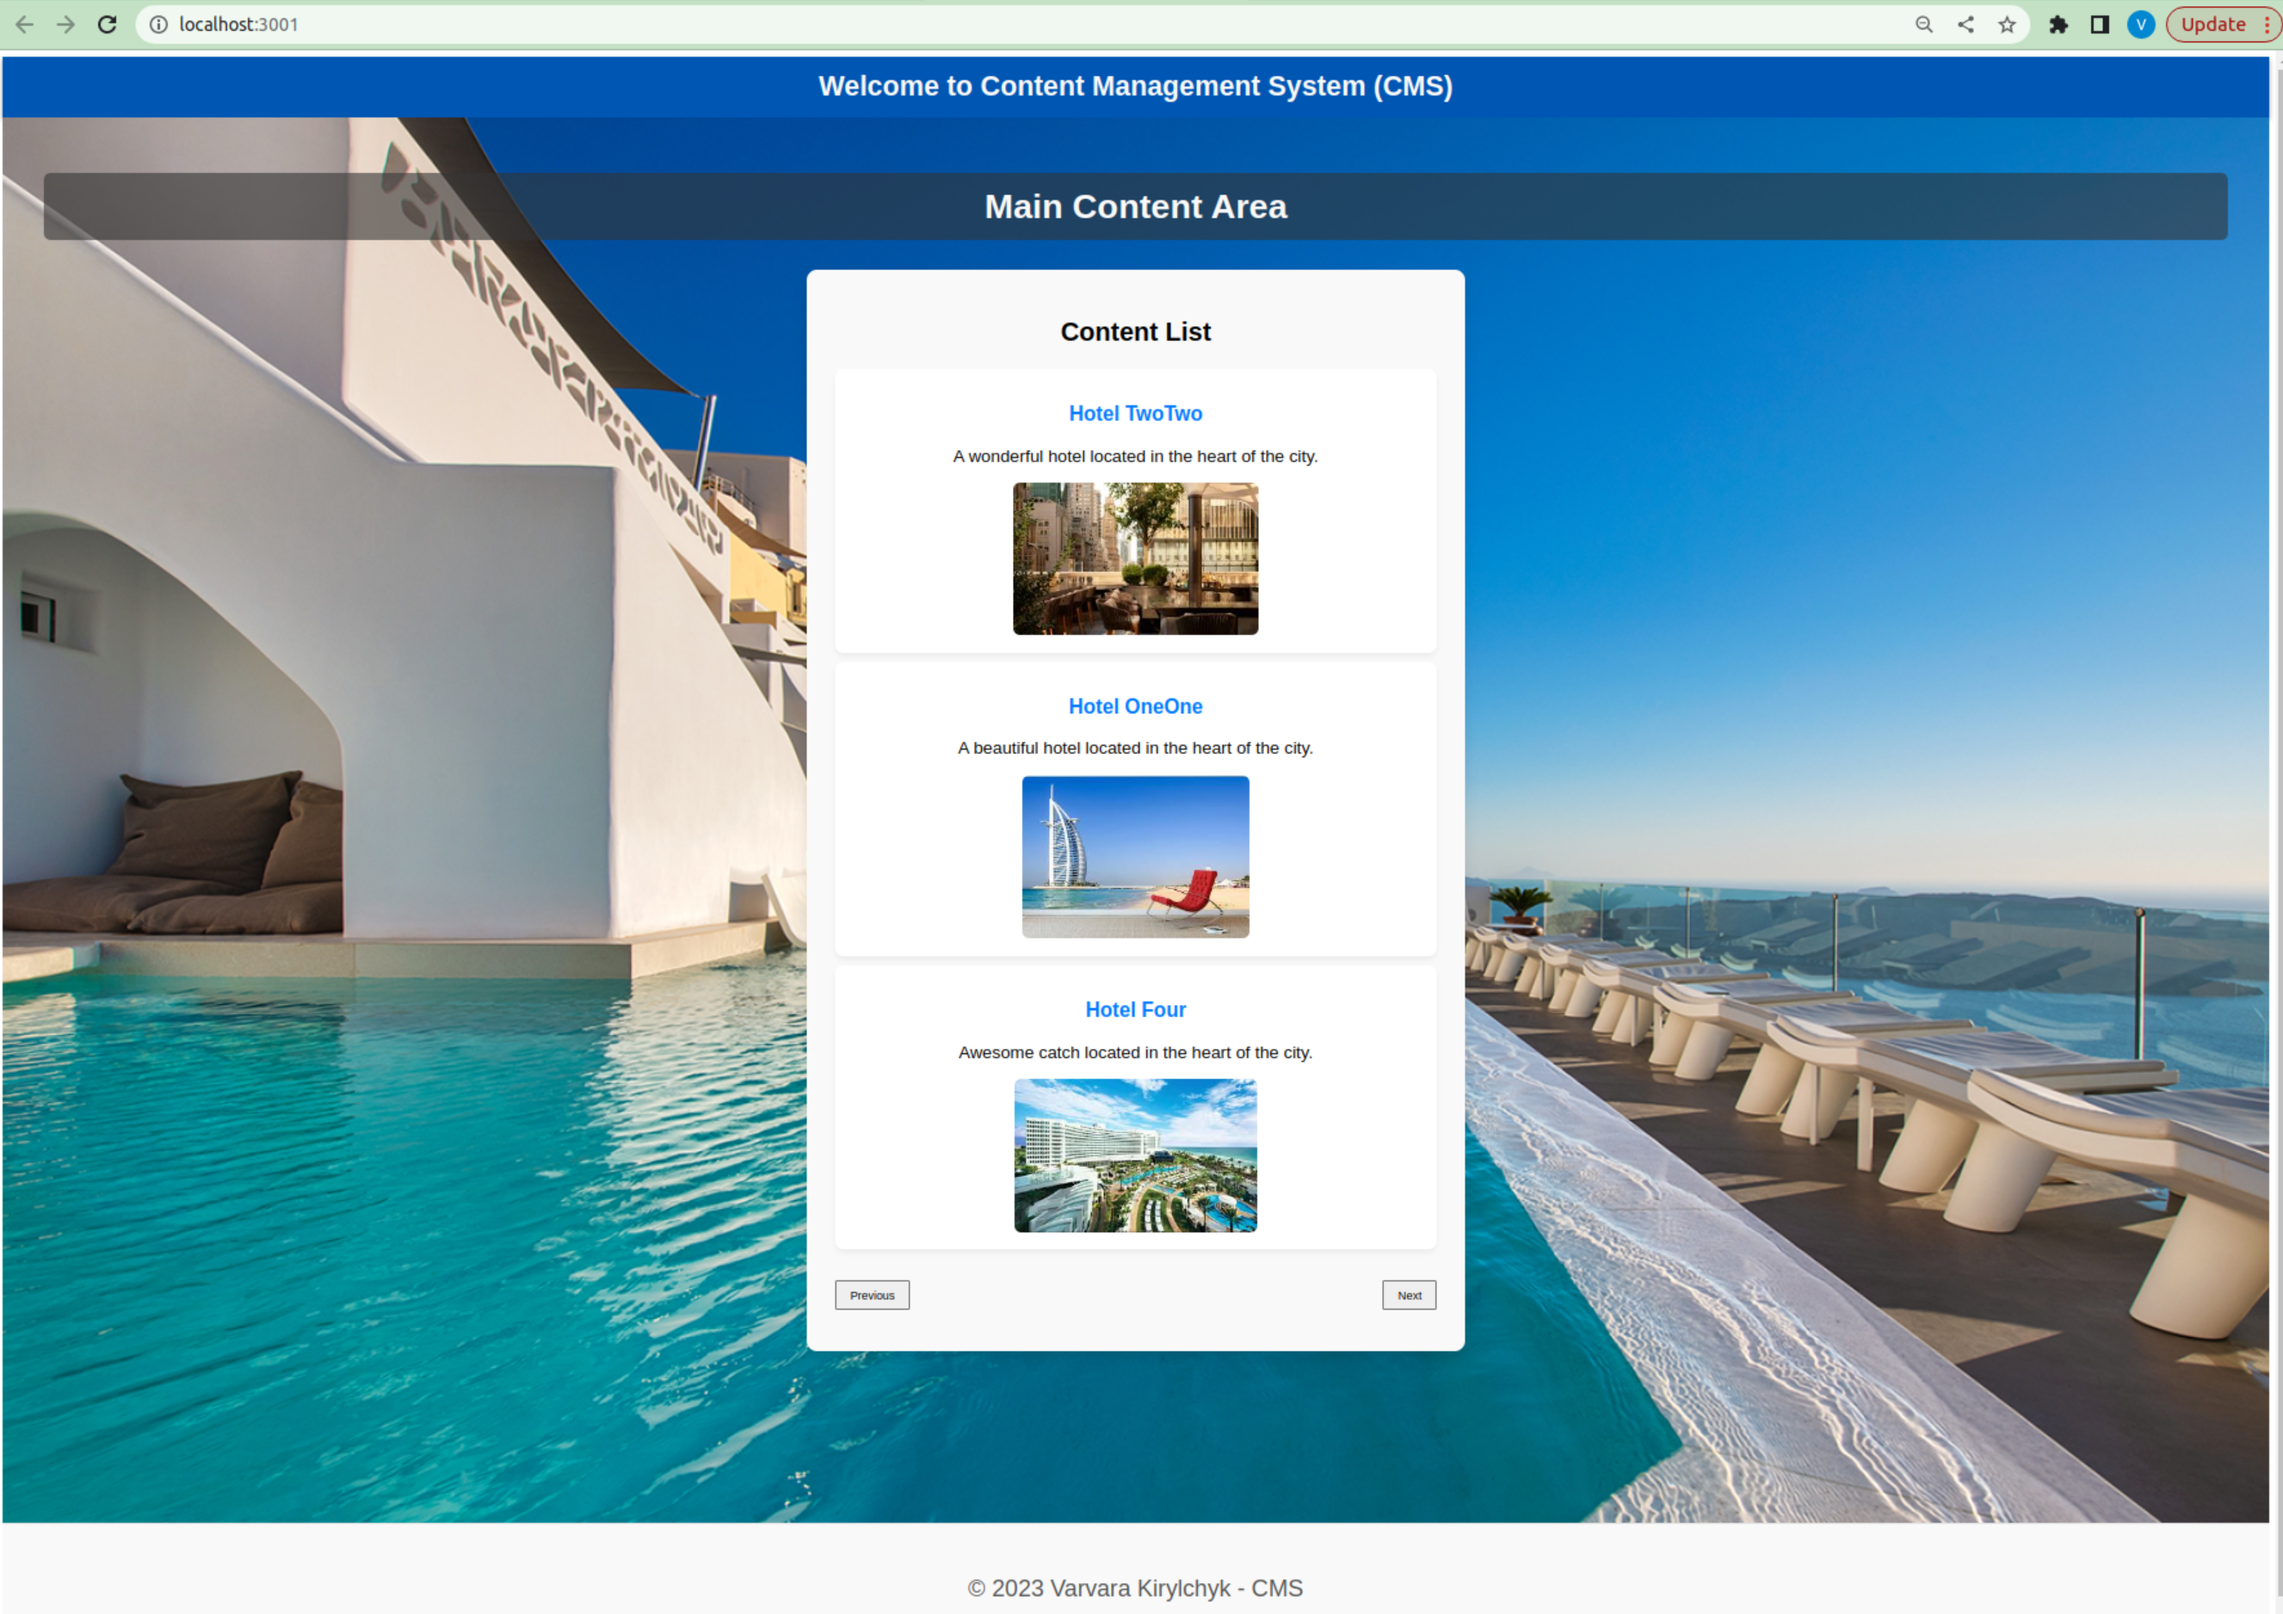
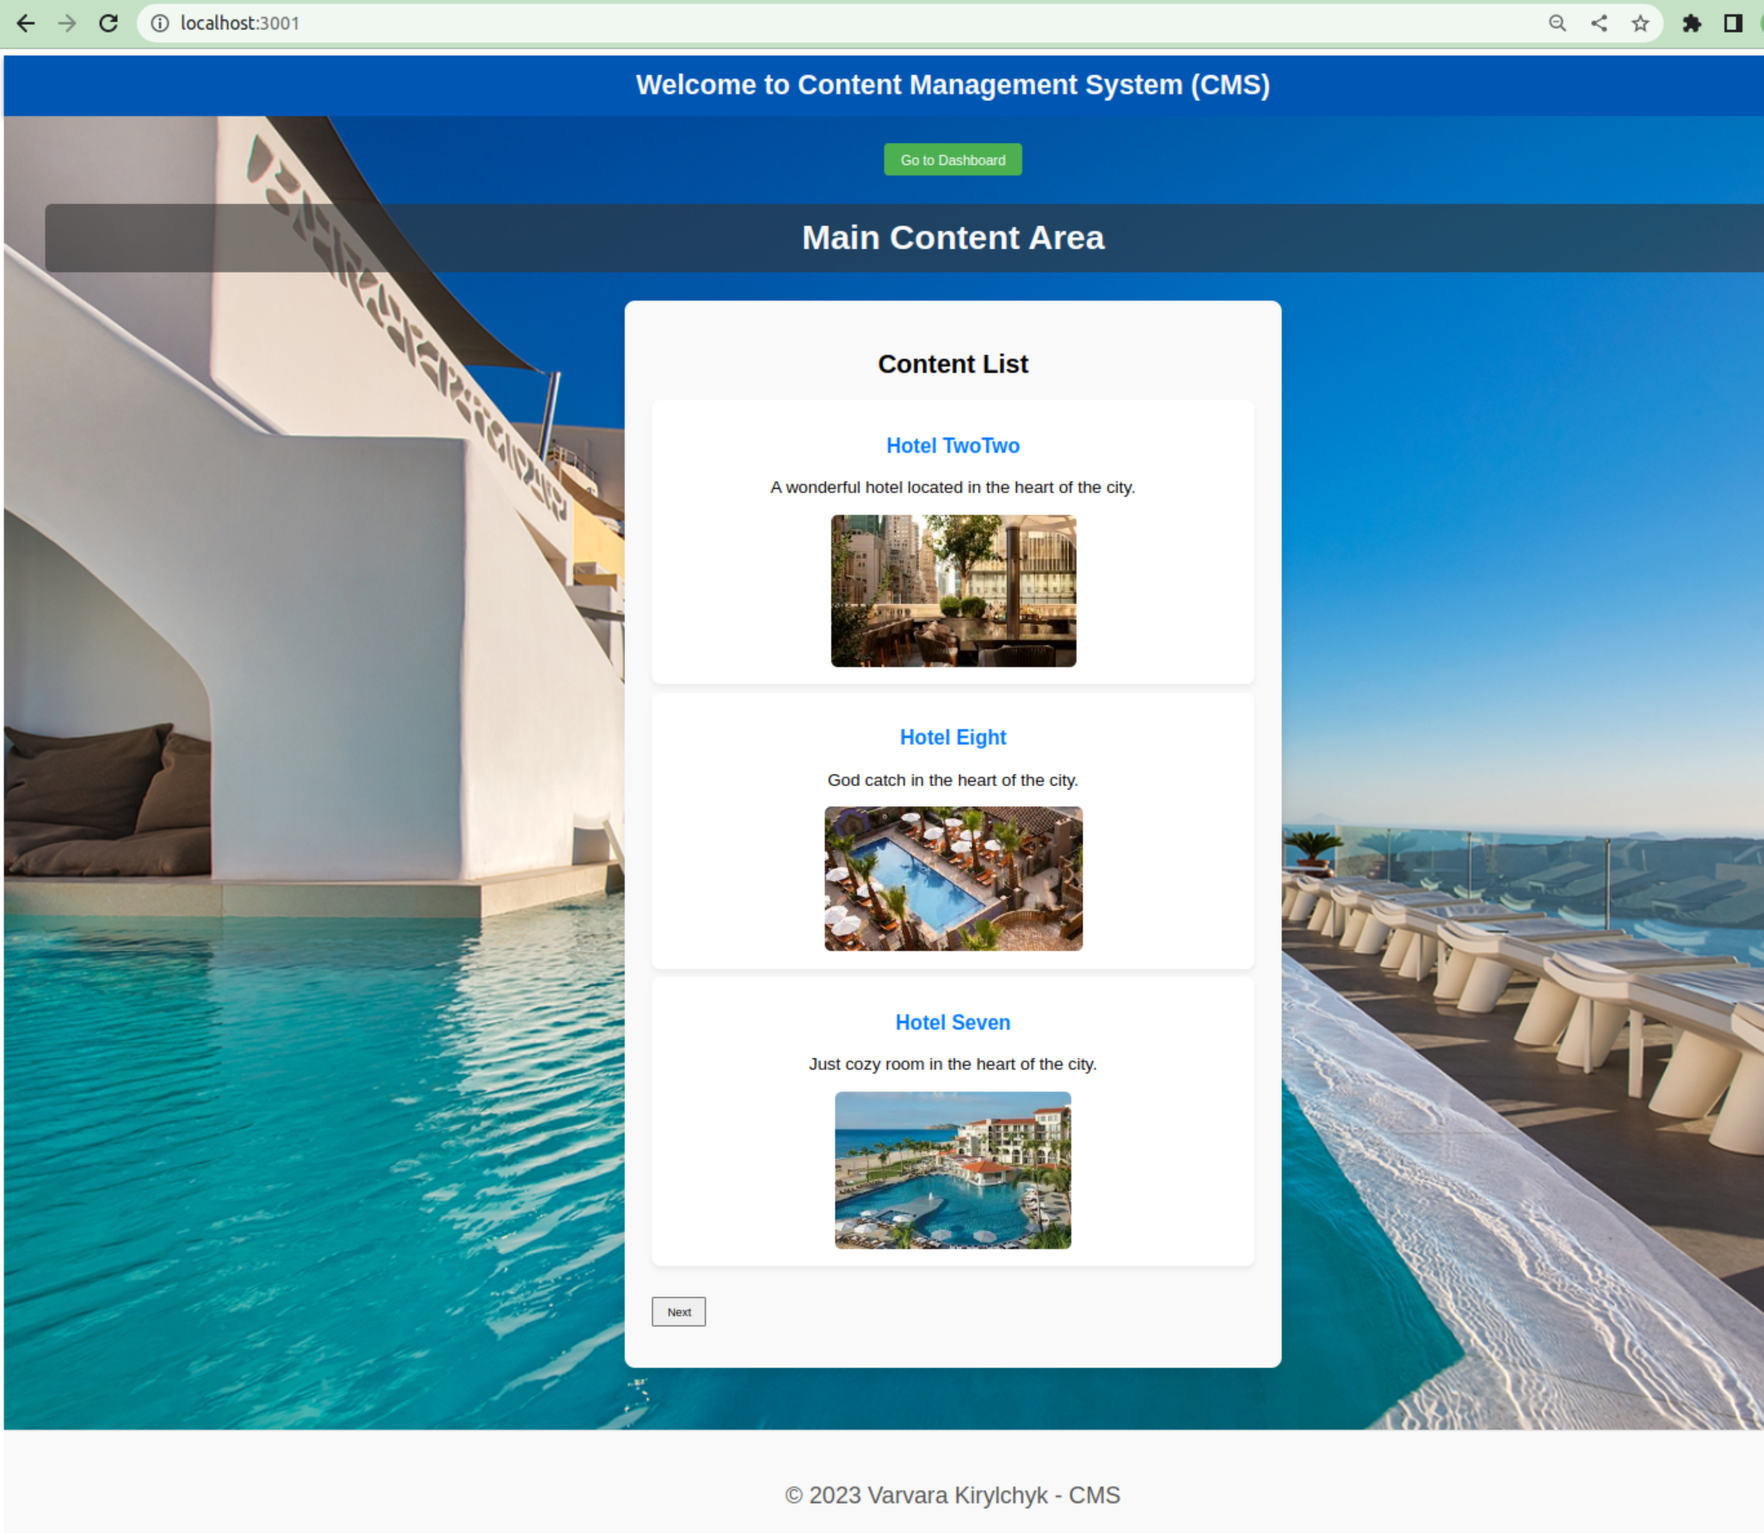
change_16_dashboard

diff --git a/backend/index.js b/backend/index.js
@@ -2,46 +2,41 @@ const express = require('express');
 const mongoose = require('mongoose');
 const cors = require('cors');
 const cms_cards = require('./routers/cms_cards');
+const cms_dashboard = require('./routers/cms_dashboard_routes');
+
 
 const app = express();
+
+// CORS Configuration
+const corsOptions = {
+    origin: 'http://localhost:3001', // Adjust as needed
+    optionsSuccessStatus: 200
+};
+app.use(cors(corsOptions));
+
+// Parse JSON requests
 app.use(express.json());
 
-const corsOptions = {
-    origin: 'http://localhost:3001',
-    optionsSuccessStatus: 200,
-};
-
-app.use(cors(corsOptions));
-app.use(cors()); // Enable CORS for all routes
-app.use(express.json()); // Parse JSON requests
-
-
-// My MongoDB connection string
+// MongoDB Connection String
 const mongoDBConnectionString = 'mongodb+srv://Kirylchyk:rita12@cluster0.j4dfwce.mongodb.net/?retryWrites=true&w=majority';
 
 mongoose.connect(mongoDBConnectionString, {
     useNewUrlParser: true,
-    useUnifiedTopology: true,
+    useUnifiedTopology: true
 });
 
 const db = mongoose.connection;
+db.on('error', error => console.error('Varvara, error connecting to MongoDB:', error));
+db.on('connected', () => console.log('Varvara, successfully connected to MongoDB'));
+db.on('disconnected', () => console.log('Varvara, disconnected from MongoDB'));
 
-db.on('connected', () => {
-    console.log('Successfully connected to MongoDB');
-});
-
-db.on('error', (error) => {
-    console.error('Error connecting to MongoDB:', error);
-});
-
-db.on('disconnected', () => {
-    console.log('Disconnected from MongoDB');
-});
-
-// All routes
+// Routes
 app.use('/api/cms_cards', cms_cards);
+app.use('/api/dashboard', cms_dashboard);
 
-const PORT = 5001;
+
+// Server Listening
+const PORT = process.env.PORT || 5001;
 app.listen(PORT, () => {
     console.log(`Server started on http://localhost:${PORT}`);
 });

diff --git a/frontend/src/components/Dashboard/Dashboard.js b/frontend/src/components/Dashboard/Dashboard.js
@@ -1,5 +1,6 @@
 import React, { useState, useEffect } from 'react';
 import { useNavigate } from 'react-router-dom';
+import styles from './Dashboard.module.css';
 
 
 function Dashboard() {
@@ -14,13 +15,18 @@ function Dashboard() {
 
     useEffect(() => {
         // Fetch card count
-        fetch('/api/cardCount')
-            .then(response => response.json())
+        fetch('http://localhost:5001/api/dashboard/cardCount')
+            .then(response => {
+                if (!response.ok) {
+                    throw new Error(`Server error: ${response.statusText}`);
+                }
+                return response.json();
+            })
             .then(data => setCardCount(data.count))
             .catch(error => console.error('Error fetching card count:', error));
 
         // Fetch average price
-        fetch('/api/averagePrice')
+        fetch('http://localhost:5001/api/dashboard/averagePrice')
             .then(response => response.json())
             .then(data => setAveragePrice(data.averagePrice))
             .catch(error => console.error('Error fetching average price:', error));
@@ -29,11 +35,18 @@ function Dashboard() {
     return (
         <div>
             <h1>Dashboard</h1>
-            <div>
-                <button onClick={goBack}>Back to Main</button>
-                <h2>Card Count: {cardCount}</h2>
-                <h2>Average Price: {averagePrice.toFixed(2)}</h2>
+
+            <div className={styles.dashboard}>
+                <div className={styles.widget}>
+                    <h2>Card Count</h2>
+                    <p className={styles.highlight}>{cardCount}</p>
+                </div>
+                <div className={styles.widget}>
+                    <h2>Average Price</h2>
+                    <p className={styles.highlight}>${averagePrice}</p>
+                </div>
             </div>
+
         </div>
     );
 }

diff --git a/backend/routers/cms_dashboard_routes.js b/backend/routers/cms_dashboard_routes.js
@@ -1,7 +1,8 @@
 const express = require('express');
 const router = express.Router();
-const { MongoClient, ObjectId } = require('mongodb');
+const { MongoClient } = require('mongodb');
 const { MONGO_URI } = require('../utils/utils');
+const cors = require('cors');
 
 
 router.get('/cardCount', async (req, res) => {
@@ -23,13 +24,17 @@ router.get('/averagePrice', async (req, res) => {
         const client = new MongoClient(MONGO_URI, { useNewUrlParser: true, useUnifiedTopology: true });
         await client.connect();
         const db = client.db('test');
-        const average = await db.collection('cards').aggregate([
+        const result = await db.collection('cards').aggregate([
             { $group: { _id: null, averagePrice: { $avg: "$price" } } }
         ]).toArray();
         await client.close();
 
-        res.status(200).json({ averagePrice: average[0].averagePrice });
+        const averagePrice = result[0] ? result[0].averagePrice : 0;
+        res.status(200).json({ averagePrice });
     } catch (error) {
         res.status(500).json({ message: 'Error fetching average price', error: error.message });
     }
 });
+
+
+module.exports = router;

diff --git a/frontend/src/components/Dashboard/Dashboard.module.css b/frontend/src/components/Dashboard/Dashboard.module.css
@@ -1,0 +1,40 @@
+.dashboard {
+    display: flex;
+    justify-content: space-around;
+    padding: 20px;
+    gap: 10px;
+}
+
+.widget {
+    background-color: #f9f9f9;
+    border-radius: 15px;
+    box-shadow: 0 6px 16px rgba(0, 0, 0, 0.15);
+    padding: 30px;
+    text-align: center;
+    width: 250px;
+    transition: transform 0.3s ease, box-shadow 0.3s ease; /* Smooth transition for hover effect */
+}
+
+.widget:hover {
+    transform: translateY(-5px); /* Slightly raise the widget */
+    box-shadow: 0 8px 20px rgba(0, 0, 0, 0.2);
+}
+
+.widget h2 {
+    color: #4a4a4a;
+    font-size: 1.5em;
+    margin-bottom: 20px;
+}
+
+.widget p {
+    color: #5a5a5a;
+    font-size: 2em;
+    font-weight: bold;
+    margin-top: 0;
+    margin-bottom: 15px;
+}
+
+.widget .highlight {
+    color: #2a9d8f;
+    font-size: 2.2em;
+}

diff --git a/frontend/src/components/Main/Main.js b/frontend/src/components/Main/Main.js
@@ -9,7 +9,7 @@ function Main() {
         <main className={styles.mainContainer}>
 
             <div>
-                <h1>Main Screen</h1>
+                {/*<h1>Main Screen</h1>*/}
                 <Link to="/dashboard">
                     <button className={styles.dashboardButton}>Go to Dashboard</button>
                 </Link>

diff --git a/README.md b/README.md
@@ -29,10 +29,19 @@ Users are able to CRUD:
 **Screens**:
 - :white_check_mark: Login Page 
 - :white_check_mark: Main Page
-- :white_check_mark: Dashboard (overview of the system, including recent updates)
+- :white_check_mark: Dashboard 
 
 **Functions**:
 - :white_check_mark: Pagination
+- :white_check_mark: Hover-over effects
+
+**Screen: Dashboard**
+The screen displays two widgets. Widget "Card Count" calculates 
+in backend the total ids of card in db and get the number via get request.
+Widget "Average Price" counts average price listed in bd.
+
+![pic003.png](pics/pic003.png)
+
 
 **Notes**:
 - :construction: Version Control: The system allows users to see previous versions of content (draft)
